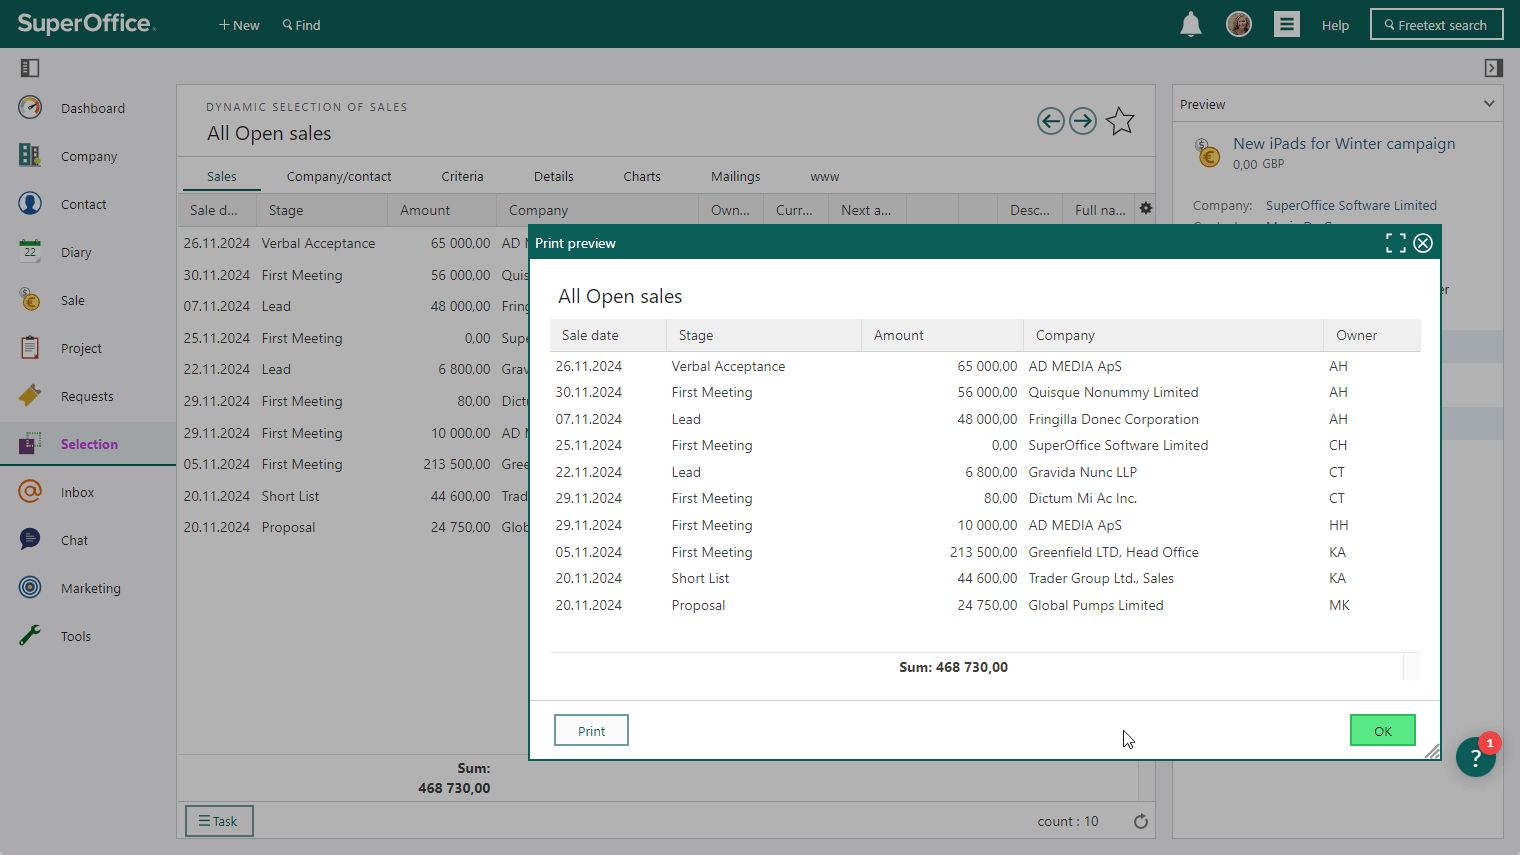
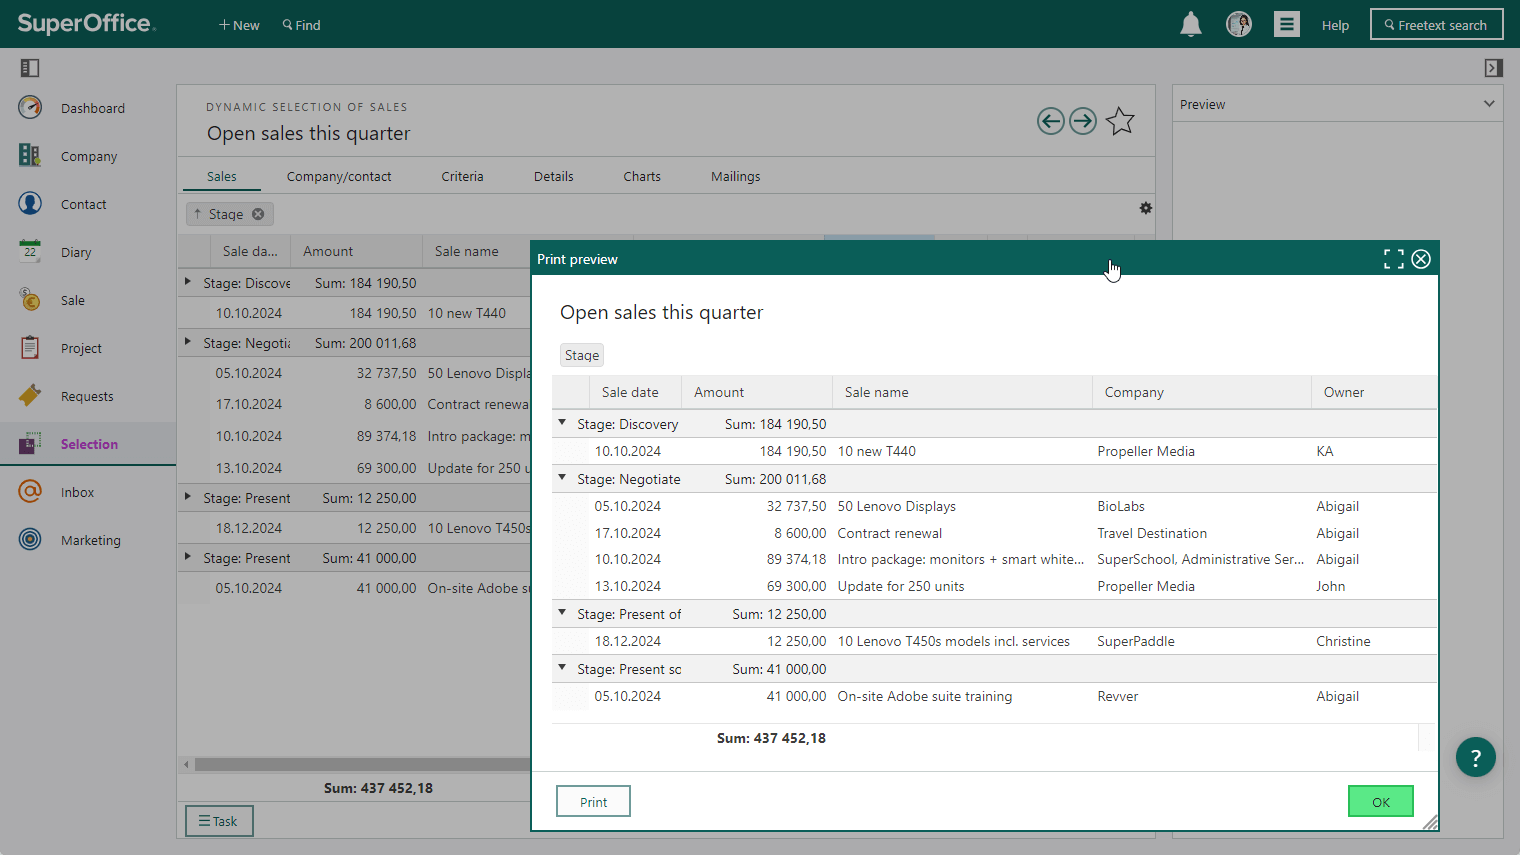
#1423 Update of info after Handover meeting

diff --git a/release-notes/10.3/core-crm/10.3.11-update.md b/release-notes/10.3/core-crm/10.3.11-update.md
@@ -13,11 +13,11 @@ audience_tooltip: SuperOffice CRM
 
 # Core CRM 10.3.11 update
 
-## Document - Clean and intuitive
+## Document dialog - Clean and intuitive
 
-The Document dialog have the same look and feel as the follow-up dialog. This is to make it more **intuitive** for you, as a user, to select the title, template type, company/contact, sale and project in the document dialog, just as you do in the follow-up dialog.
+The Document dialog have the same look and feel as the **follow-up dialog**. This is to make it more **intuitive** for you, as a user, to select the title, template type, company/contact, sale and project in the document dialog, just as you do in the follow-up dialog.
 
-It's also very easy to set the document as a **favourite** with the star, so you can quickly find it again in the My favourites side panel.
+It's very easy to set the document as a **favourite** with the star, so you can quickly find it again in the My favourites side panel.
 
 The **top bar** in the document dialog contains fields for:
 
@@ -29,28 +29,29 @@ And you did know, off course, that you can **drag & drop** a document from your 
 
 ![Selection - Print labels task for company -screenshot][img1]
 
-The document dialog can be fine tuned in the Screen designer in Settings and maintenance.
+The [document dialog][3] can be customized in the **Screen designer** in Settings and maintenance.
 
-## Selection - Task for print content from selection
+## Selection - Task for Print selection
 
 Have you ever needed to **print** out a list of a certain content from SuperOffice CRM?
 
-Using the print functionality from Tasks in Selection, you can print whatever the selection you have. Set up the five - **5** - first columns you want to print and there you go. If you do want to print out more data, use our [Export to Excel][2] functionality instead.
+Using the print functionality from Tasks in Selection, you can print whatever the selection you have. Set up the **five first columns** you want to print and there you go. If you do want to print out more data, use our [Export to Excel][2] functionality instead.
 
-And, if you have set up a **column calculation** in your selection, this calculation are also shown in the report.
+And, if you have set up grouping and/or a **column calculation** in your selection, this will also show in the report.
 
 ![Selection - Print labels task for company -screenshot][img2]
 
 ![Selection - Print labels task for company -screenshot][img3]
 
-**PS!** You can also print a main screen with selected content from the section tab by selecting the Print option from Task.
+**PS!** You can also print a main screen with section tab by selecting the Print option from Task.
 
 > [!NOTE]
-> Please note! The **Reporter** and **Reporter Studio** have an **end of life** set to 07.01.2025. Read more in our [End of life overview][1].
+> **Please note!** The **Reporter** button will be removed for all Online customers from 01.12.2024. Read more in our [End of life overview][1].
 
 <!-- Referenced links-->
 [1]: ../../eol/index.md
 [2]: ../../../docs/en/learn/section-tabs/export-archives.md
+[3]: ../../../en/ui/screen-designer/learn/reference.md
 
 <!-- Referenced images -->
 [img1]: ../../../docs/media/loc/en/document/document-dialog-org.png

diff --git a/release-notes/10.3/core-crm/index.md b/release-notes/10.3/core-crm/index.md
@@ -13,8 +13,8 @@ audience_tooltip: SuperOffice CRM
 
 # New and improved Core CRM
 
-* [Document - Clean and intuitive (10.3.11)][11]
-* [Selection - Task for print content from selection (10.3.11)][11]
+* [Document dialog - Clean and intuitive (10.3.11)][11]
+* [Selection - Task for Print selection (10.3.11)][11]
 * [Selection - Task for print labels (10.3.10)][10]
 * [Column calculations on section tabs and selections (10.3.9)][9]
 * [Columns/fields - Base currency and currency options (10.3.9)][9]

diff --git a/release-notes/10.3/index.md b/release-notes/10.3/index.md
@@ -22,8 +22,8 @@ Check out our **Product release** overview for more details in our [Community][2
 ### SuperOffice CRM
 
 * 10.3.11 (29.10.2024):
-  * [Document - Clean and intuitive (10.3.11)][44]
-  * [Selection - Task for print content from selection (10.3.11)][44]
+  * [Document dialog - Clean and intuitive (10.3.11)][44]
+  * [Selection - Task for Print selection (10.3.11)][44]
 
 * 10.3.10 (08.10.2024):
   * [Selection - Task for print labels (10.3.10)][42] in Core CRM
